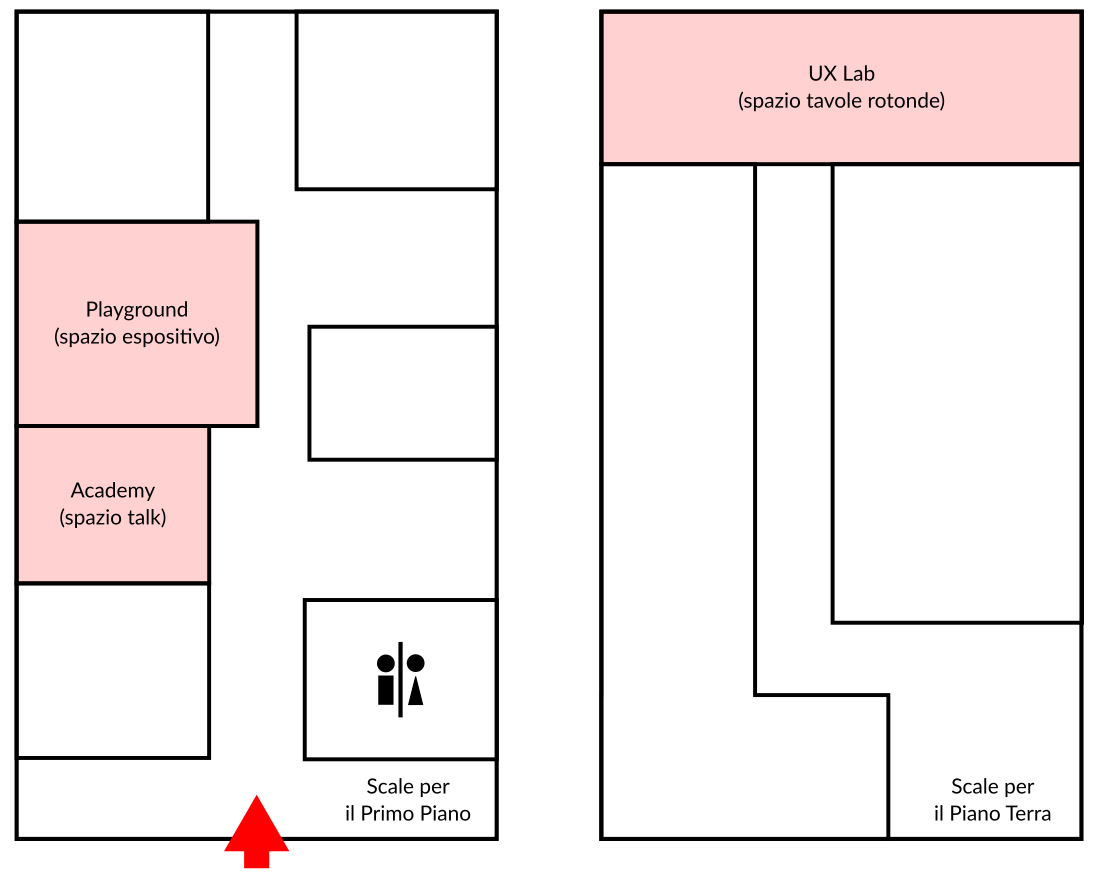
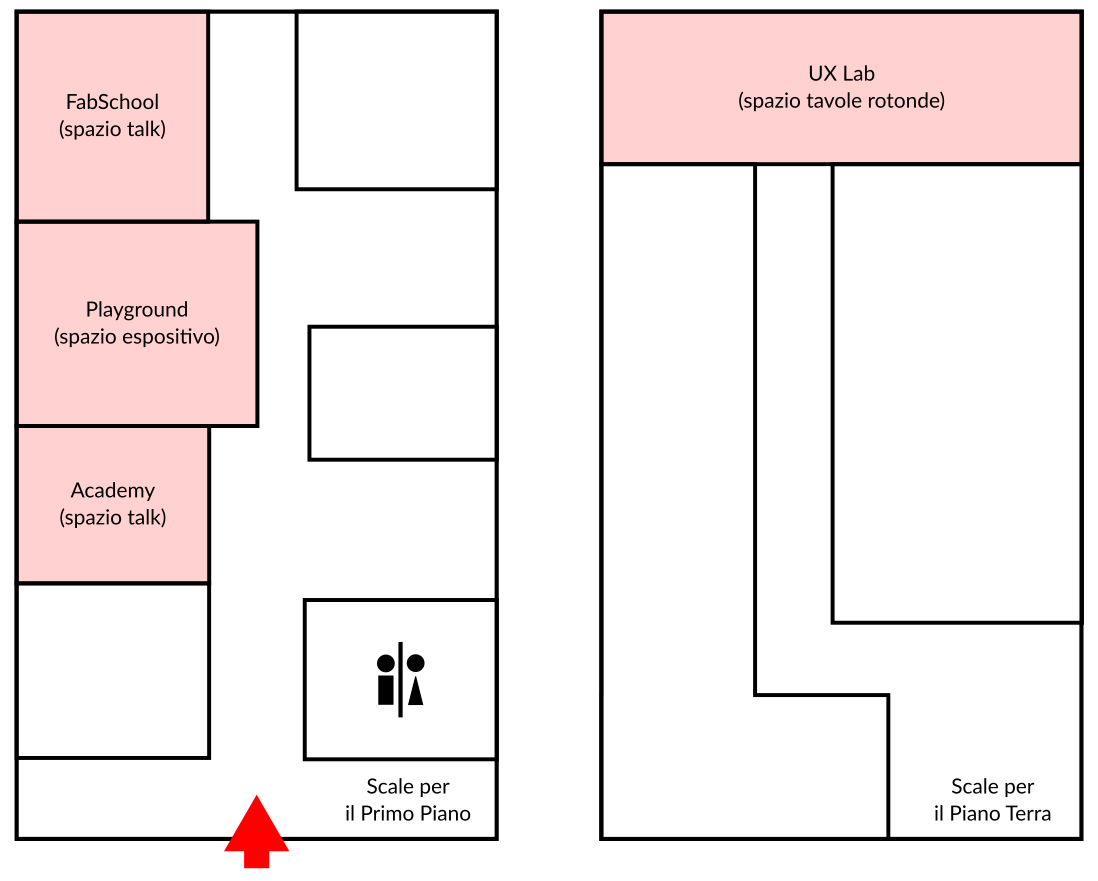
revisione programma

Changed region(s): [[0.0, 0.0, 0.1858, 0.2758]]

diff --git a/index.php b/index.php
@@ -196,7 +196,7 @@ $contents = new Contents();
                         <div class="row">
         					<div class="col-12 col-md-6">
                                 <p class="text-center mt-2"><i class="fa fa-solid fa-arrow-down fa-3x"></i></p>
-                                In aula Academy (al piano terra, davanti all'ingresso) si tengono i talk ed i workshop, nei quali esperti di ogni specifico ambito raccontano il proprio progetto o la propria esperienza.<br>
+                                Nelle aule Academy e FabSchool (al piano terra, davanti all'ingresso) si tengono i talk ed i workshop, nei quali esperti di ogni specifico ambito raccontano il proprio progetto o la propria esperienza.<br>
                                 Ciascuno dura 30 minuti, e sono benvenute le domande!
                             </div>
                             <div class="col-12 col-md-6">
@@ -222,9 +222,10 @@ $contents = new Contents();
 						<thead>
 							<tr>
 								<th width="8%">&nbsp;</th>
-								<th width="24%">Academy</th>
-								<th width="24%">Playground</th>
-								<th width="24%">UX Lab</th>
+								<th width="23%">Academy</th>
+                                <th width="23%">Fab School</th>
+								<th width="23%">Playground</th>
+								<th width="23%">UX Lab</th>
 							</tr>
 						</thead>
 						<tbody>
@@ -233,6 +234,9 @@ $contents = new Contents();
 								<td>
 									<div class="cell"><?php echo $contents->printCell('welcome') ?></div>
 								</td>
+                                <td rowspan="2">
+                                    &nbsp;
+                                </td>
 								<td rowspan="3">
 									<div class="cell">Spazio Espositivo</div>
 								</td>
@@ -251,13 +255,17 @@ $contents = new Contents();
 							<tr>
 								<th class="hour">12:00</th>
 								<td>
-									<div class="cell half"><?php echo $contents->printCell('fuss') ?></div>
+									<div class="cell half"><?php echo $contents->printCell('qgis') ?></div>
                                     <div class="cell half"><?php echo $contents->printCell('osa') ?></div>
 								</td>
+                                <td>
+                                    <div class="cell half"><?php echo $contents->printCell('zorin') ?></div>
+                                    <div class="cell half"><?php echo $contents->printCell('fuss') ?></div>
+                                </td>
 							</tr>
 							<tr>
 								<th class="hour">13:00</th>
-								<td colspan="3" rowspan="2">
+								<td colspan="4" rowspan="2">
 									<div class="cell">Pausa Pranzo & Networking<br>(catering in sede)</div>
 								</td>
 							</tr>
@@ -270,6 +278,9 @@ $contents = new Contents();
                                     <div class="cell half"><?php echo $contents->printCell('openstamanager') ?></div>
                                     <div class="cell half"><?php echo $contents->printCell('bomb') ?></div>
 								</td>
+                                <td rowspan="4">
+                                    &nbsp;
+                                </td>
 								<td rowspan="4">
 									<div class="cell">Spazio Espositivo</div>
 								</td>
@@ -298,7 +309,7 @@ $contents = new Contents();
 								<th class="hour">18:00</th>
 								<td>
 									<div class="cell half"><?php echo $contents->printCell('inps') ?></div>
-                                    <div class="cell half"><?php echo $contents->printCell('zorin') ?></div>
+                                    <div class="cell half"><?php echo $contents->printCell('geopa') ?></div>
 								</td>
 							</tr>
 						</tbody>
